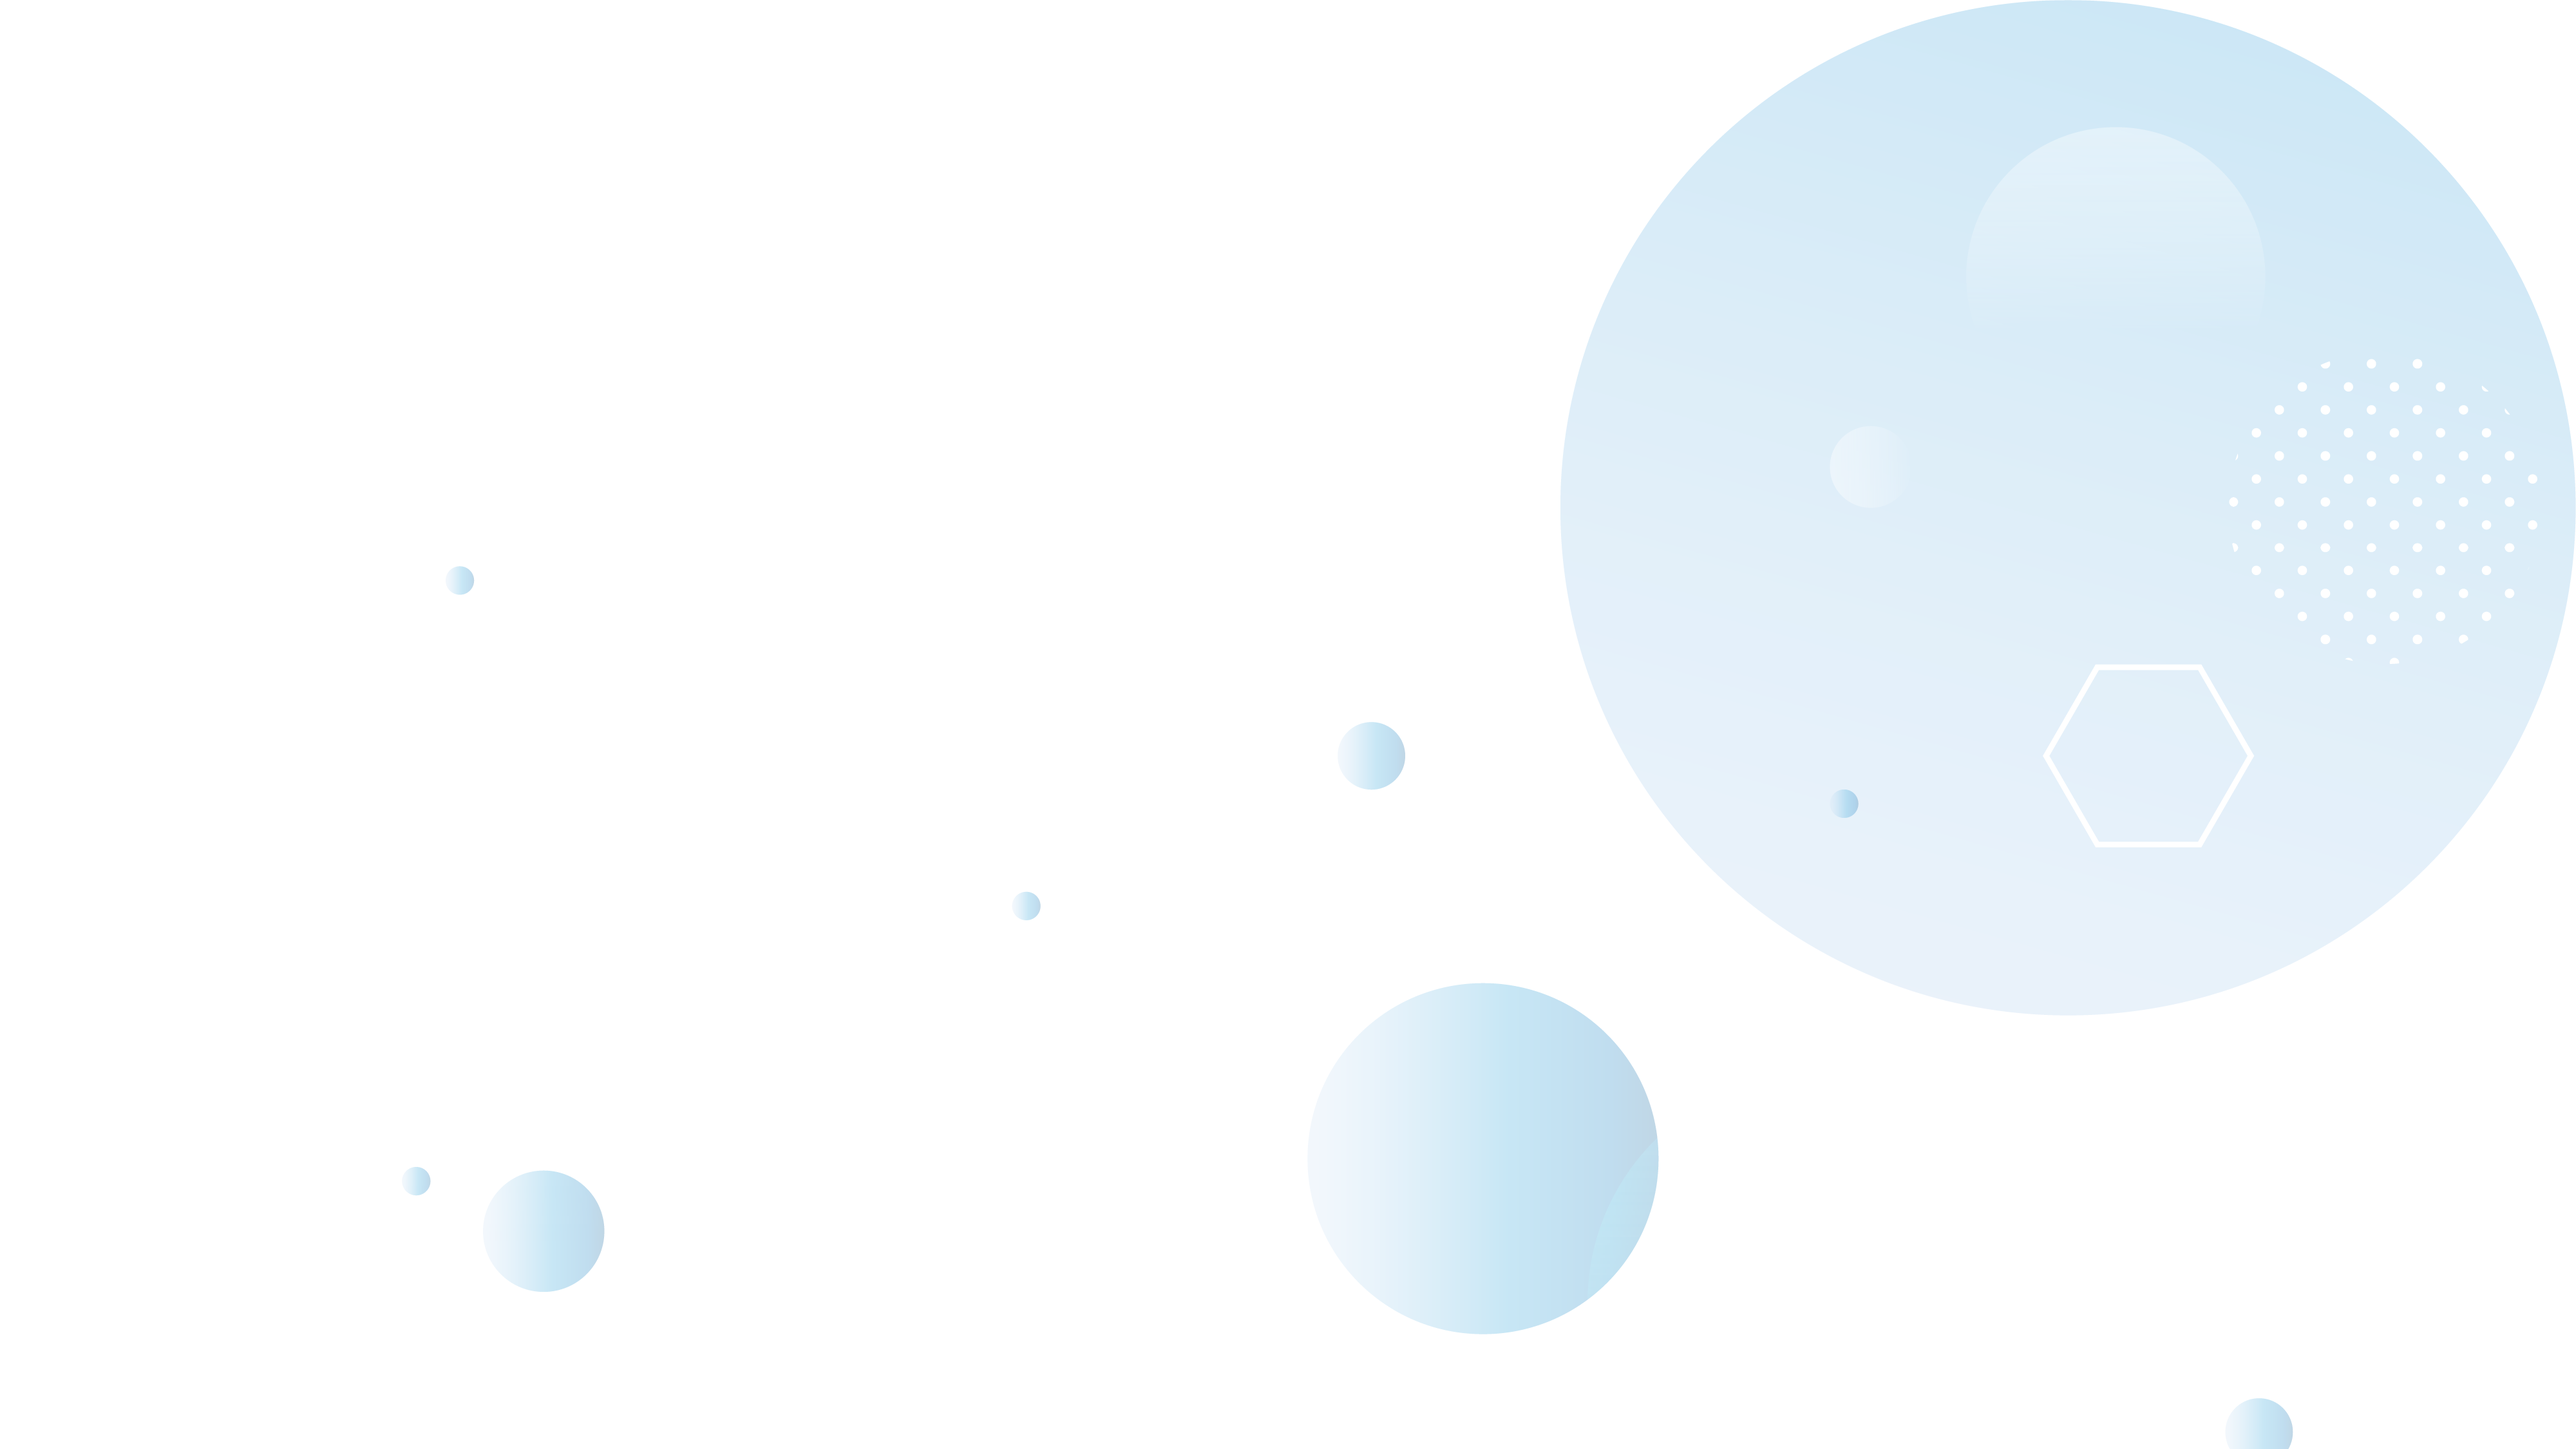
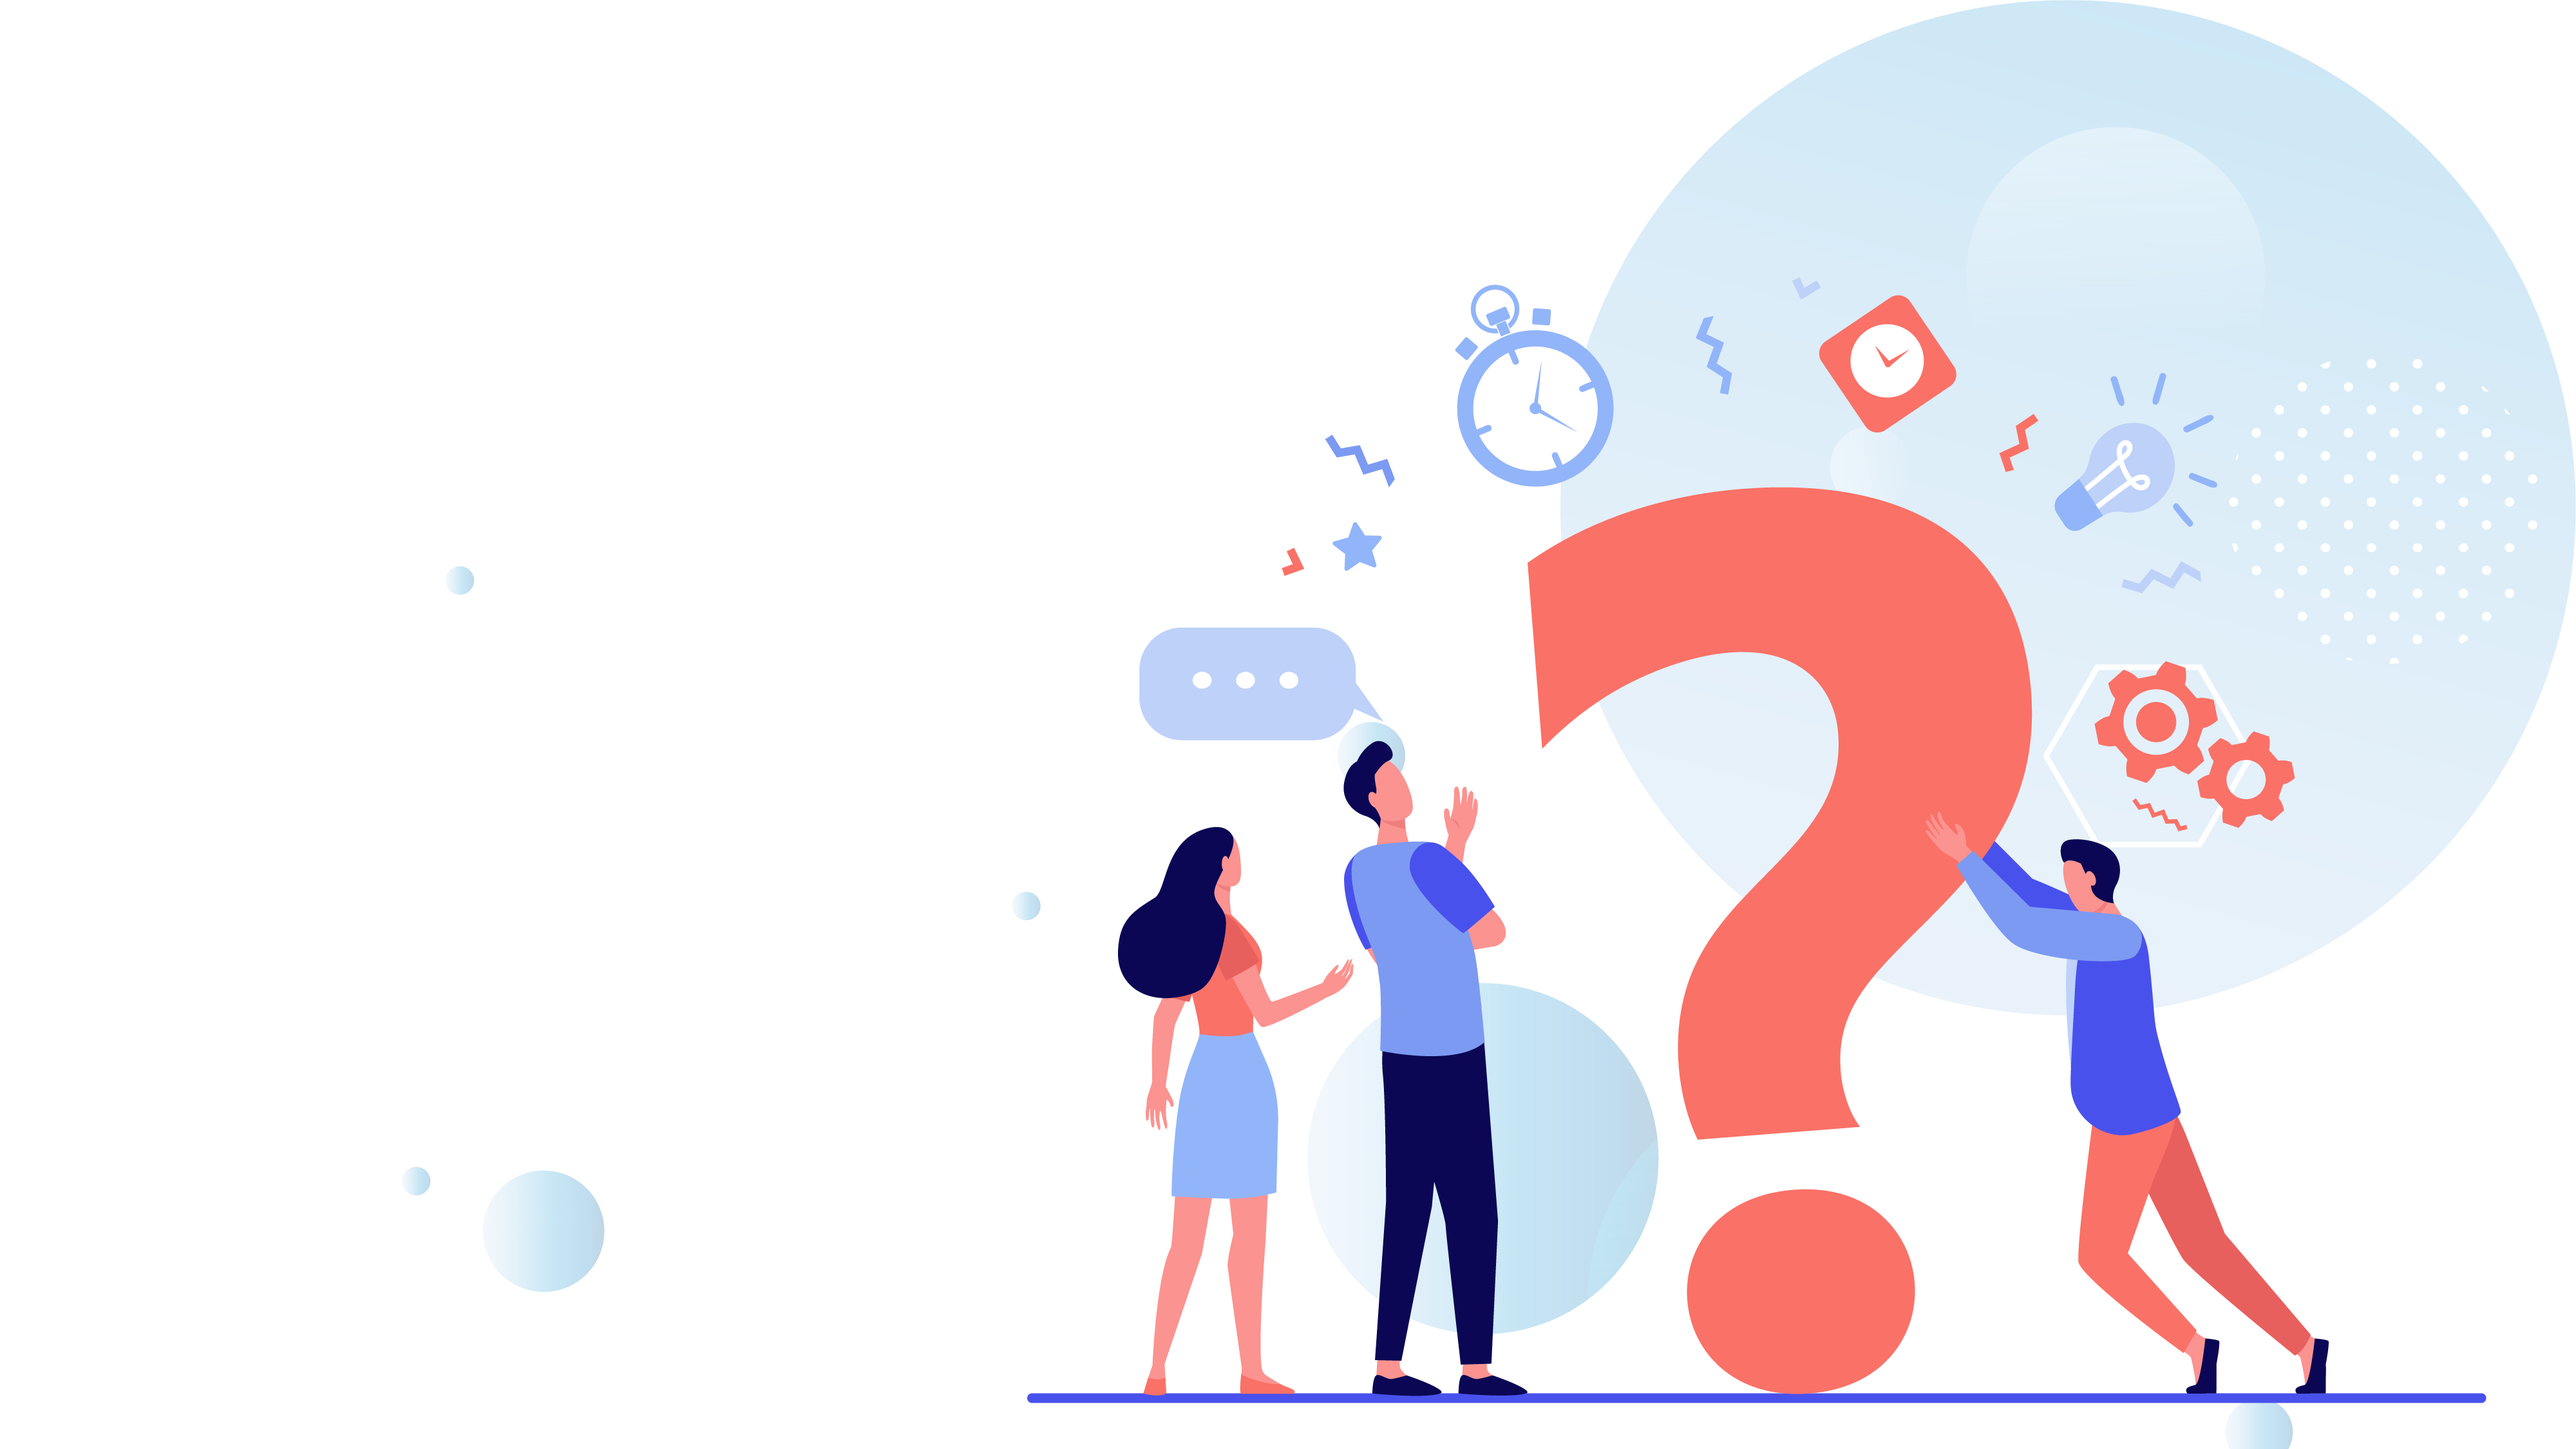
why png

diff --git a/app/assets/stylesheets/pages/_home.scss b/app/assets/stylesheets/pages/_home.scss
@@ -42,4 +42,13 @@
   background-size: contain;
   background-position: center;
   background-repeat: no-repeat;
+  .why-png-content{
+    display: grid;
+    grid-template-columns: 1fr 1fr;
+    width: 600px;
+    row-gap: 40px;
+  }
+  .info-why-png{
+    width: 270px;
+  }
 }
